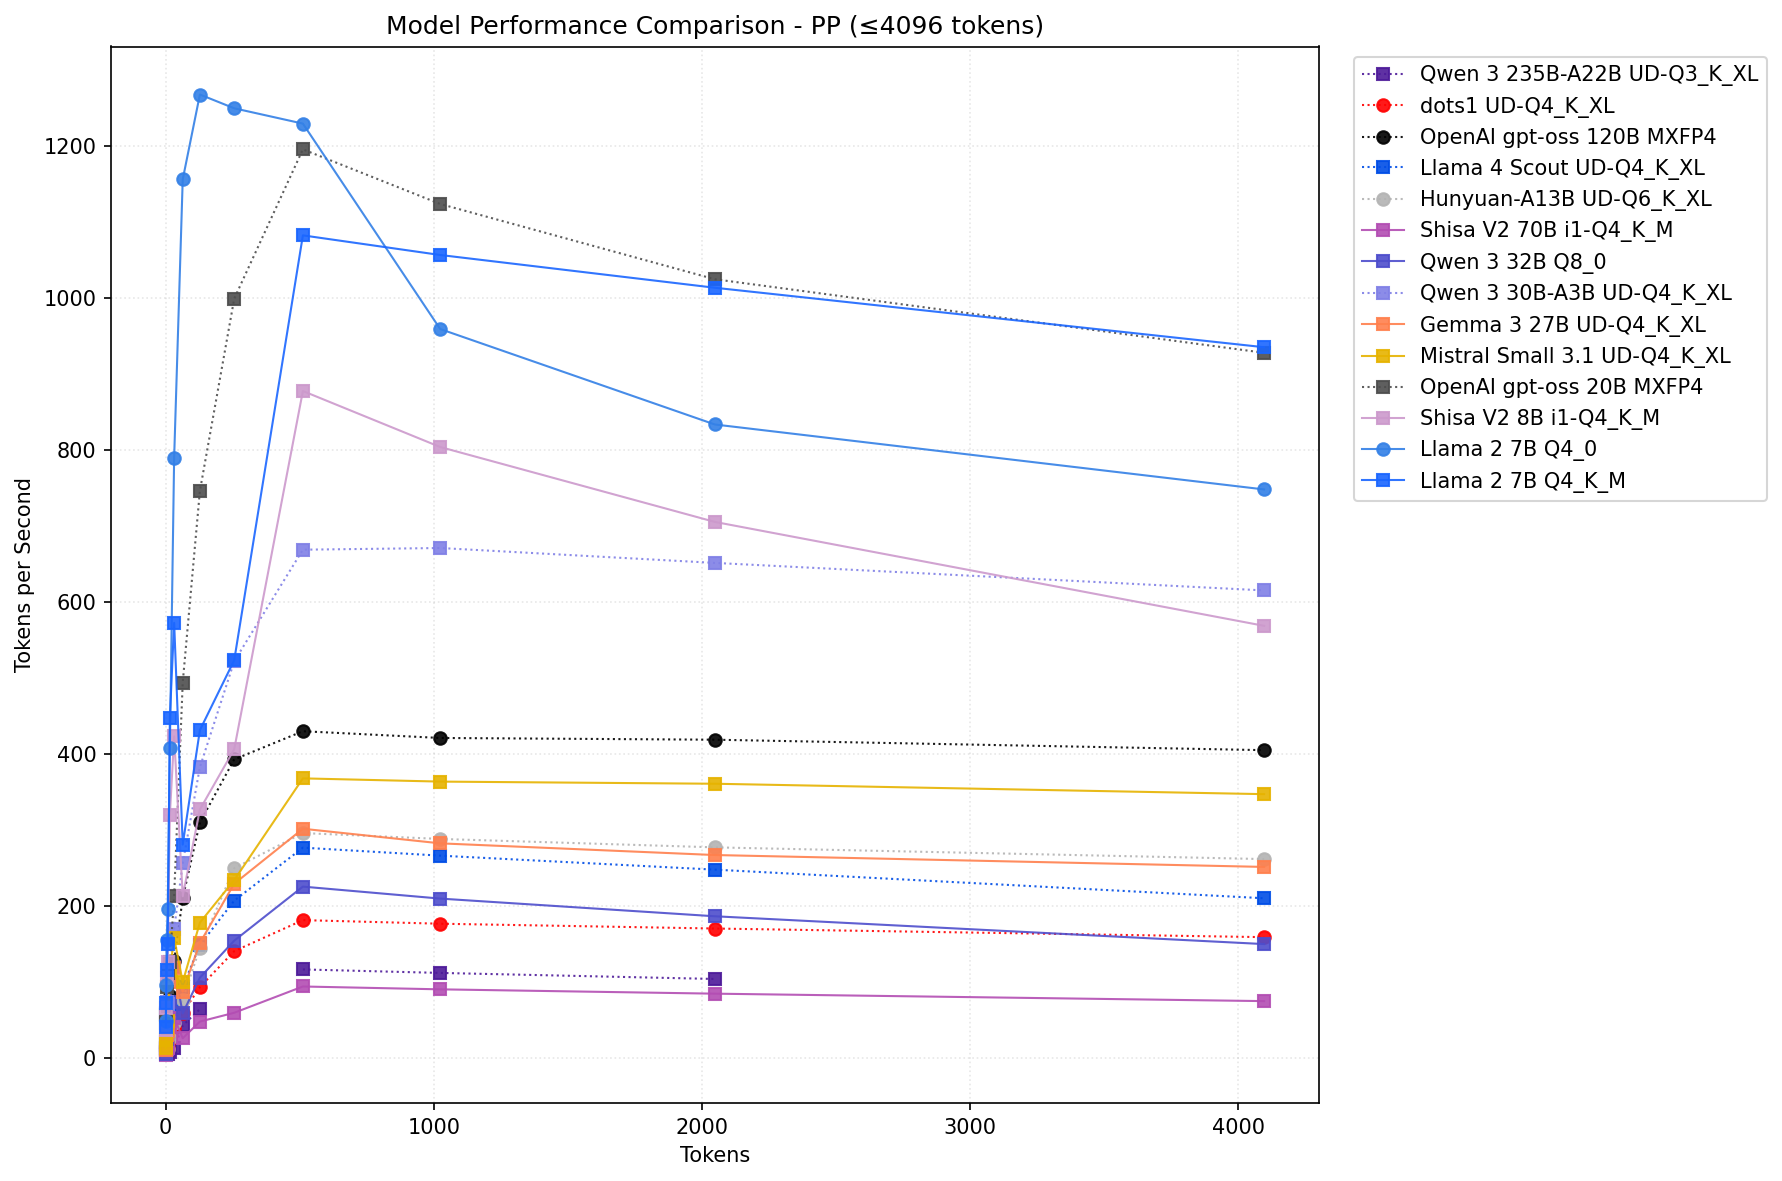
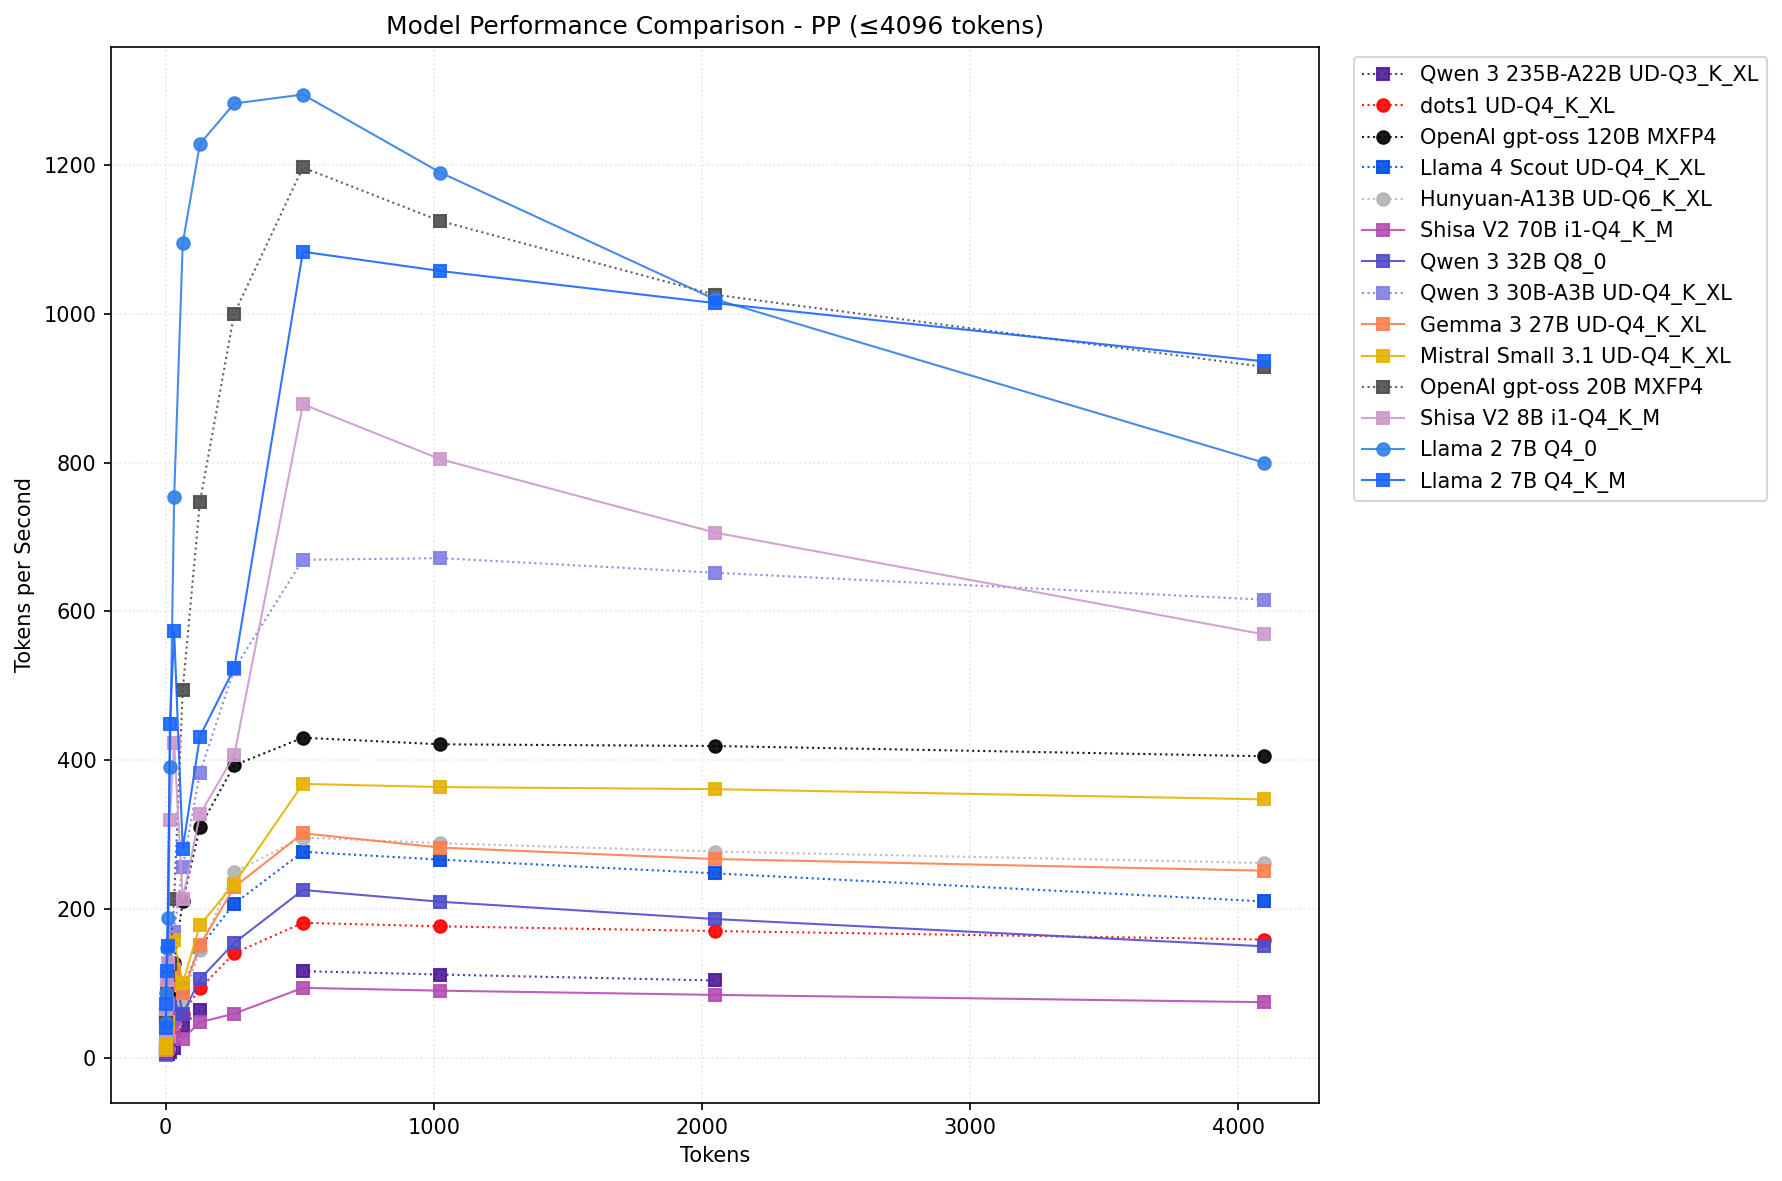
updated results and Vulkan AMDVLK and RADV support

diff --git a/llm-bench/create-summary-readme.py b/llm-bench/create-summary-readme.py
@@ -8,6 +8,21 @@ import matplotlib.pyplot as plt
 from pathlib import Path
 from tabulate import tabulate
 
+def remap_legacy_vulkan(df):
+    """Remap legacy 'vulkan' build names to 'vulkan_amdvlk' for backward compatibility."""
+    if df is None or df.empty:
+        return df
+    
+    # Create a copy to avoid modifying the original
+    df = df.copy()
+    
+    # Remap build names that are exactly 'vulkan' or end with '-vulkan' to use amdvlk variant
+    mask = (df['build'] == 'vulkan') | df['build'].str.endswith('-vulkan')
+    df.loc[mask, 'build'] = df.loc[mask, 'build'].str.replace(r'^vulkan$', 'vulkan_amdvlk', regex=True)
+    df.loc[mask, 'build'] = df.loc[mask, 'build'].str.replace(r'-vulkan$', '-vulkan_amdvlk', regex=True)
+    
+    return df
+
 # MODELS to lookup/render
 MODELS = {
     "dots.llm1.inst-UD-Q4_K_XL": {
@@ -106,8 +121,8 @@ MODELS = {
         "arch": "Llama 2",
         "weights": 7,
         "active": 7,
-        "pp": "vulkan",
-        "tg": "hip_hipblaslt_fa",
+        "pp": "vulkan_amdvlk_fa",
+        "tg": "vulkan_radv_fa",
         "line": {
             "color": (0.2, 0.5, 0.9, 0.9),
             "lw": 1,
@@ -205,6 +220,7 @@ def load_model_results(model_key):
     
     try:
         df = pd.read_json(results_file, orient='records', lines=True)
+        df = remap_legacy_vulkan(df)
         return df
     except Exception as e:
         print(f"Error loading results for {model_key}: {e}")
@@ -220,16 +236,48 @@ def get_best_performance_for_backend(df, backend_config, mode, token_limit=None)
         mask = (df['build'].str.contains('vulkan', na=False)) & \
                (df['fa'] == '-fa 1') & \
                (df['b'] == '-b 256')
+    elif backend_config == "vulkan_amdvlk_fa_b=256":
+        mask = (df['build'].str.contains('vulkan_amdvlk', na=False)) & \
+               (df['fa'] == '-fa 1') & \
+               (df['b'] == '-b 256')
+    elif backend_config == "vulkan_radv_fa_b=256":
+        mask = (df['build'].str.contains('vulkan_radv', na=False)) & \
+               (df['fa'] == '-fa 1') & \
+               (df['b'] == '-b 256')
     elif backend_config == "vulkan_fa":
         mask = (df['build'].str.contains('vulkan', na=False)) & \
+               (df['fa'] == '-fa 1') & \
+               (df['b'] == '')
+    elif backend_config == "vulkan_amdvlk_fa":
+        mask = (df['build'].str.contains('vulkan_amdvlk', na=False)) & \
+               (df['fa'] == '-fa 1') & \
+               (df['b'] == '')
+    elif backend_config == "vulkan_radv_fa":
+        mask = (df['build'].str.contains('vulkan_radv', na=False)) & \
                (df['fa'] == '-fa 1') & \
                (df['b'] == '')
     elif backend_config == "vulkan_b=256":
         mask = (df['build'].str.contains('vulkan', na=False)) & \
                (df['fa'] == '') & \
                (df['b'] == '-b 256')
+    elif backend_config == "vulkan_amdvlk_b=256":
+        mask = (df['build'].str.contains('vulkan_amdvlk', na=False)) & \
+               (df['fa'] == '') & \
+               (df['b'] == '-b 256')
+    elif backend_config == "vulkan_radv_b=256":
+        mask = (df['build'].str.contains('vulkan_radv', na=False)) & \
+               (df['fa'] == '') & \
+               (df['b'] == '-b 256')
     elif backend_config == "vulkan":
         mask = (df['build'].str.contains('vulkan', na=False)) & \
+               (df['fa'] == '') & \
+               (df['b'] == '')
+    elif backend_config == "vulkan_amdvlk":
+        mask = (df['build'].str.contains('vulkan_amdvlk', na=False)) & \
+               (df['fa'] == '') & \
+               (df['b'] == '')
+    elif backend_config == "vulkan_radv":
+        mask = (df['build'].str.contains('vulkan_radv', na=False)) & \
                (df['fa'] == '') & \
                (df['b'] == '')
     elif backend_config == "hip_hipblaslt":
@@ -285,16 +333,48 @@ def get_best_performance(df, model_info, mode, token_limit=None):
         mask = (df['build'].str.contains('vulkan', na=False)) & \
                (df['fa'] == '-fa 1') & \
                (df['b'] == '-b 256')
+    elif best_backend == "vulkan_amdvlk_fa_b=256":
+        mask = (df['build'].str.contains('vulkan_amdvlk', na=False)) & \
+               (df['fa'] == '-fa 1') & \
+               (df['b'] == '-b 256')
+    elif best_backend == "vulkan_radv_fa_b=256":
+        mask = (df['build'].str.contains('vulkan_radv', na=False)) & \
+               (df['fa'] == '-fa 1') & \
+               (df['b'] == '-b 256')
     elif best_backend == "vulkan_fa":
         mask = (df['build'].str.contains('vulkan', na=False)) & \
+               (df['fa'] == '-fa 1') & \
+               (df['b'] == '')
+    elif best_backend == "vulkan_amdvlk_fa":
+        mask = (df['build'].str.contains('vulkan_amdvlk', na=False)) & \
+               (df['fa'] == '-fa 1') & \
+               (df['b'] == '')
+    elif best_backend == "vulkan_radv_fa":
+        mask = (df['build'].str.contains('vulkan_radv', na=False)) & \
                (df['fa'] == '-fa 1') & \
                (df['b'] == '')
     elif best_backend == "vulkan_b=256":
         mask = (df['build'].str.contains('vulkan', na=False)) & \
                (df['fa'] == '') & \
                (df['b'] == '-b 256')
+    elif best_backend == "vulkan_amdvlk_b=256":
+        mask = (df['build'].str.contains('vulkan_amdvlk', na=False)) & \
+               (df['fa'] == '') & \
+               (df['b'] == '-b 256')
+    elif best_backend == "vulkan_radv_b=256":
+        mask = (df['build'].str.contains('vulkan_radv', na=False)) & \
+               (df['fa'] == '') & \
+               (df['b'] == '-b 256')
     elif best_backend == "vulkan":
         mask = (df['build'].str.contains('vulkan', na=False)) & \
+               (df['fa'] == '') & \
+               (df['b'] == '')
+    elif best_backend == "vulkan_amdvlk":
+        mask = (df['build'].str.contains('vulkan_amdvlk', na=False)) & \
+               (df['fa'] == '') & \
+               (df['b'] == '')
+    elif best_backend == "vulkan_radv":
+        mask = (df['build'].str.contains('vulkan_radv', na=False)) & \
                (df['fa'] == '') & \
                (df['b'] == '')
     elif best_backend == "hip_hipblaslt":
@@ -335,8 +415,12 @@ def get_best_performance(df, model_info, mode, token_limit=None):
 
 def convert_backend_to_human_readable(backend_config):
     """Convert backend configuration to human readable format."""
-    if backend_config.startswith("vulkan"):
-        return "Vulkan"
+    if backend_config.startswith("vulkan_amdvlk"):
+        return "Vulkan AMDVLK"
+    elif backend_config.startswith("vulkan_radv"):
+        return "Vulkan RADV"
+    elif backend_config.startswith("vulkan"):
+        return "Vulkan AMDVLK"  # Legacy vulkan maps to AMDVLK
     elif backend_config.startswith("hip"):
         return "HIP"
     elif backend_config.startswith("rocwmma"):

diff --git a/llm-bench/README.md b/llm-bench/README.md
@@ -123,6 +123,8 @@ tar xvf ../therock-dist-linux-gfx1151-7.0.0rc20250714.tar.gz
 
 - You can choose wherever you want to put it and refer to [rocm-therock-env.sh](../rocm-therock-env.sh) for how to load the appropriate environment variables
 
+- The HIP backend is super crashy on many model architectures due to firmware/driver/ROCm problems? See: https://github.com/ROCm/ROCm/issues/5151
+
 ### llama.cpp
 You can reference the `[llama-cpp-bencher.py](llama-cpp-bencher.py)` directly for more info, but a few notes:
 
@@ -158,42 +160,42 @@ cmake -S . -B build -DGGML_HIP=ON -DAMDGPU_TARGETS=gfx1151 -DGGML_HIP_ROCWMMA_FA
 ### Prompt Processing (pp) Performance
 ![PP Performance](summary-results-pp.png)
 
-| Model Name                   | Architecture   |   Weights (B) |   Active (B) | Backend     | Flags          |   pp512 |   tg128 |   Memory (Max MiB) |
-|------------------------------|----------------|---------------|--------------|-------------|----------------|---------|---------|--------------------|
-| Llama 2 7B Q4_0              | Llama 2        |             7 |            7 | Vulkan      |                |  1230.0 |    48.3 |               4323 |
-| OpenAI gpt-oss 20B MXFP4     | gpt-oss        |            21 |            4 | HIP         | hipBLASLt      |  1196.2 |    46.9 |              12958 |
-| Llama 2 7B Q4_K_M            | Llama 2        |             7 |            7 | HIP rocWMMA | fa=1 hipBLASLt |  1083.0 |    41.3 |               4720 |
-| Shisa V2 8B i1-Q4_K_M        | Llama 3        |             8 |            8 | HIP         | hipBLASLt      |   878.2 |    37.2 |               5308 |
-| Qwen 3 30B-A3B UD-Q4_K_XL    | Qwen 3 MoE     |            30 |            3 | HIP rocWMMA | fa=1 hipBLASLt |   669.4 |    58.5 |              17533 |
-| OpenAI gpt-oss 120B MXFP4    | gpt-oss        |           117 |            5 | Vulkan      |                |   430.6 |    33.7 |              64157 |
-| Mistral Small 3.1 UD-Q4_K_XL | Mistral 3      |            24 |           24 | HIP rocWMMA | fa=1 hipBLASLt |   368.5 |    13.8 |              14638 |
-| Gemma 3 27B UD-Q4_K_XL       | Gemma 3        |            27 |           27 | HIP         | hipBLASLt      |   302.2 |    10.7 |              17542 |
-| Hunyuan-A13B UD-Q6_K_XL      | Hunyuan MoE    |            80 |           13 | Vulkan      | fa=1           |   296.6 |    18.1 |              69179 |
-| Llama 4 Scout UD-Q4_K_XL     | Llama 4 MoE    |           109 |           17 | HIP         | hipBLASLt      |   277.4 |    17.6 |              59720 |
-| Qwen 3 32B Q8_0              | Qwen 3         |            32 |           32 | HIP         | hipBLASLt      |   226.1 |     6.4 |              33683 |
-| dots1 UD-Q4_K_XL             | dots1 MoE      |           142 |           14 | Vulkan      | fa=1           |   182.0 |    22.1 |              84082 |
-| Qwen 3 235B-A22B UD-Q3_K_XL  | Qwen 3 MoE     |           235 |           22 | HIP         | hipBLASLt      |   117.1 |    12.9 |              99950 |
-| Shisa V2 70B i1-Q4_K_M       | Llama 3        |            70 |           70 | HIP rocWMMA | hipBLASLt      |    94.7 |     4.5 |              41522 |
+| Model Name                   | Architecture   |   Weights (B) |   Active (B) | Backend       | Flags          |   pp512 |   tg128 |   Memory (Max MiB) |
+|------------------------------|----------------|---------------|--------------|---------------|----------------|---------|---------|--------------------|
+| Llama 2 7B Q4_0              | Llama 2        |             7 |            7 | Vulkan AMDVLK | fa=1           |  1294.1 |    47.7 |               4281 |
+| OpenAI gpt-oss 20B MXFP4     | gpt-oss        |            21 |            4 | HIP           | hipBLASLt      |  1196.2 |    46.9 |              12958 |
+| Llama 2 7B Q4_K_M            | Llama 2        |             7 |            7 | HIP rocWMMA   | fa=1 hipBLASLt |  1083.0 |    41.3 |               4720 |
+| Shisa V2 8B i1-Q4_K_M        | Llama 3        |             8 |            8 | HIP           | hipBLASLt      |   878.2 |    37.2 |               5308 |
+| Qwen 3 30B-A3B UD-Q4_K_XL    | Qwen 3 MoE     |            30 |            3 | HIP rocWMMA   | fa=1 hipBLASLt |   669.4 |    58.5 |              17533 |
+| OpenAI gpt-oss 120B MXFP4    | gpt-oss        |           117 |            5 | Vulkan AMDVLK |                |   430.6 |    33.7 |              64157 |
+| Mistral Small 3.1 UD-Q4_K_XL | Mistral 3      |            24 |           24 | HIP rocWMMA   | fa=1 hipBLASLt |   368.5 |    13.8 |              14638 |
+| Gemma 3 27B UD-Q4_K_XL       | Gemma 3        |            27 |           27 | HIP           | hipBLASLt      |   302.2 |    10.7 |              17542 |
+| Hunyuan-A13B UD-Q6_K_XL      | Hunyuan MoE    |            80 |           13 | Vulkan AMDVLK | fa=1           |   296.6 |    18.1 |              69179 |
+| Llama 4 Scout UD-Q4_K_XL     | Llama 4 MoE    |           109 |           17 | HIP           | hipBLASLt      |   277.4 |    17.6 |              59720 |
+| Qwen 3 32B Q8_0              | Qwen 3         |            32 |           32 | HIP           | hipBLASLt      |   226.1 |     6.4 |              33683 |
+| dots1 UD-Q4_K_XL             | dots1 MoE      |           142 |           14 | Vulkan AMDVLK | fa=1           |   182.0 |    22.1 |              84082 |
+| Qwen 3 235B-A22B UD-Q3_K_XL  | Qwen 3 MoE     |           235 |           22 | HIP           | hipBLASLt      |   117.1 |    12.9 |              99950 |
+| Shisa V2 70B i1-Q4_K_M       | Llama 3        |            70 |           70 | HIP rocWMMA   | hipBLASLt      |    94.7 |     4.5 |              41522 |
 
 ### Text Generation (tg) Performance
 ![TG Performance](summary-results-tg.png)
 
-| Model Name                   | Architecture   |   Weights (B) |   Active (B) | Backend   | Flags          |   pp512 |   tg128 |   Memory (Max MiB) |
-|------------------------------|----------------|---------------|--------------|-----------|----------------|---------|---------|--------------------|
-| Qwen 3 30B-A3B UD-Q4_K_XL    | Qwen 3 MoE     |            30 |            3 | Vulkan    | b=256          |   645.5 |    78.0 |              17377 |
-| Llama 2 7B Q4_0              | Llama 2        |             7 |            7 | HIP       | fa=1 hipBLASLt |   975.3 |    49.4 |               4429 |
-| Llama 2 7B Q4_K_M            | Llama 2        |             7 |            7 | Vulkan    | fa=1           |   787.6 |    48.7 |               4463 |
-| OpenAI gpt-oss 20B MXFP4     | gpt-oss        |            21 |            4 | Vulkan    | b=256          |   943.1 |    47.0 |              14684 |
-| Shisa V2 8B i1-Q4_K_M        | Llama 3        |             8 |            8 | Vulkan    | fa=1           |   614.2 |    42.0 |               5333 |
-| OpenAI gpt-oss 120B MXFP4    | gpt-oss        |           117 |            5 | Vulkan    | b=256          |   386.8 |    33.7 |              63945 |
-| dots1 UD-Q4_K_XL             | dots1 MoE      |           142 |           14 | Vulkan    | fa=1 b=256     |   139.1 |    22.1 |              83917 |
-| Llama 4 Scout UD-Q4_K_XL     | Llama 4 MoE    |           109 |           17 | Vulkan    | fa=1 b=256     |   157.8 |    19.4 |              59917 |
-| Hunyuan-A13B UD-Q6_K_XL      | Hunyuan MoE    |            80 |           13 | Vulkan    | fa=1 b=256     |   244.8 |    18.1 |              69006 |
-| Qwen 3 235B-A22B UD-Q3_K_XL  | Qwen 3 MoE     |           235 |           22 | Vulkan    | fa=1           |   109.5 |    15.1 |             100446 |
-| Mistral Small 3.1 UD-Q4_K_XL | Mistral 3      |            24 |           24 | Vulkan    | fa=1           |   203.3 |    14.4 |              14540 |
-| Gemma 3 27B UD-Q4_K_XL       | Gemma 3        |            27 |           27 | Vulkan    | fa=1           |   114.7 |    11.8 |              18123 |
-| Qwen 3 32B Q8_0              | Qwen 3         |            32 |           32 | Vulkan    | fa=1           |   101.8 |     6.4 |              33886 |
-| Shisa V2 70B i1-Q4_K_M       | Llama 3        |            70 |           70 | Vulkan    | fa=1           |    26.4 |     5.0 |              41456 |
+| Model Name                   | Architecture   |   Weights (B) |   Active (B) | Backend       | Flags      |   pp512 |   tg128 |   Memory (Max MiB) |
+|------------------------------|----------------|---------------|--------------|---------------|------------|---------|---------|--------------------|
+| Qwen 3 30B-A3B UD-Q4_K_XL    | Qwen 3 MoE     |            30 |            3 | Vulkan AMDVLK | b=256      |   645.5 |    78.0 |              17377 |
+| Llama 2 7B Q4_0              | Llama 2        |             7 |            7 | Vulkan RADV   | fa=1       |   924.9 |    51.2 |               4276 |
+| Llama 2 7B Q4_K_M            | Llama 2        |             7 |            7 | Vulkan AMDVLK | fa=1       |   787.6 |    48.7 |               4463 |
+| OpenAI gpt-oss 20B MXFP4     | gpt-oss        |            21 |            4 | Vulkan AMDVLK | b=256      |   943.1 |    47.0 |              14684 |
+| Shisa V2 8B i1-Q4_K_M        | Llama 3        |             8 |            8 | Vulkan AMDVLK | fa=1       |   614.2 |    42.0 |               5333 |
+| OpenAI gpt-oss 120B MXFP4    | gpt-oss        |           117 |            5 | Vulkan AMDVLK | b=256      |   386.8 |    33.7 |              63945 |
+| dots1 UD-Q4_K_XL             | dots1 MoE      |           142 |           14 | Vulkan AMDVLK | fa=1 b=256 |   139.1 |    22.1 |              83917 |
+| Llama 4 Scout UD-Q4_K_XL     | Llama 4 MoE    |           109 |           17 | Vulkan AMDVLK | fa=1 b=256 |   157.8 |    19.4 |              59917 |
+| Hunyuan-A13B UD-Q6_K_XL      | Hunyuan MoE    |            80 |           13 | Vulkan AMDVLK | fa=1 b=256 |   244.8 |    18.1 |              69006 |
+| Qwen 3 235B-A22B UD-Q3_K_XL  | Qwen 3 MoE     |           235 |           22 | Vulkan AMDVLK | fa=1       |   109.5 |    15.1 |             100446 |
+| Mistral Small 3.1 UD-Q4_K_XL | Mistral 3      |            24 |           24 | Vulkan AMDVLK | fa=1       |   203.3 |    14.4 |              14540 |
+| Gemma 3 27B UD-Q4_K_XL       | Gemma 3        |            27 |           27 | Vulkan AMDVLK | fa=1       |   114.7 |    11.8 |              18123 |
+| Qwen 3 32B Q8_0              | Qwen 3         |            32 |           32 | Vulkan AMDVLK | fa=1       |   101.8 |     6.4 |              33886 |
+| Shisa V2 70B i1-Q4_K_M       | Llama 3        |            70 |           70 | Vulkan AMDVLK | fa=1       |    26.4 |     5.0 |              41456 |
 
 
 ## Testing Notes
